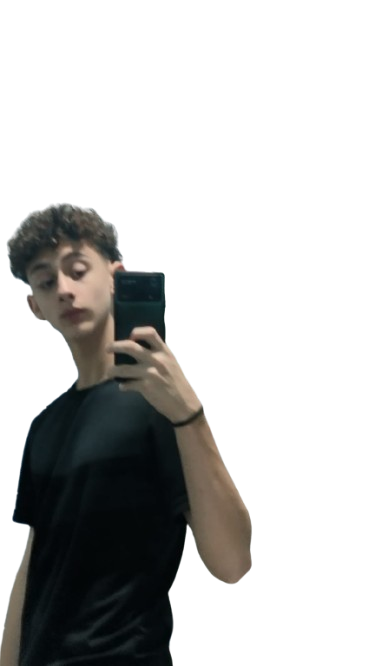
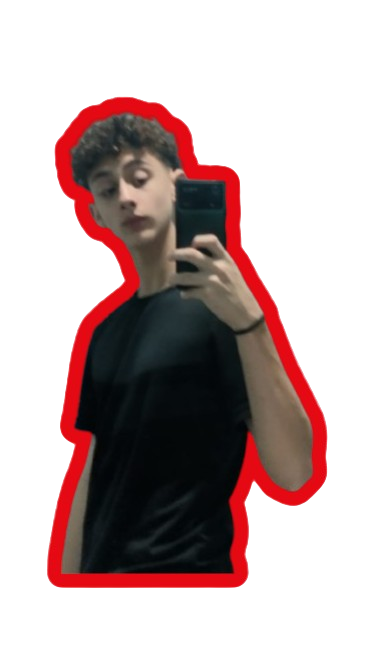
porfolio reformulado com UX/UI

diff --git a/Portfolio remodel/css/stlye.css b/Portfolio remodel/css/stlye.css
@@ -121,9 +121,11 @@ p {
 .text-logo img {
   width: 60%;
   height: 90%;
-  border: 3px solid red;
-  box-shadow: 0 0 15px 12px red, 0 0 15px 8px rgba(255, 0, 0, 0.5) inset;
-
+  margin-top: 20%;
+  margin-right: 20%;
+  border-radius: 25px 25px;
+  padding: -20px;
+  padding-top: -20px;
 }
 
 #foto {

diff --git a/aula 19/css/style.css b/aula 19/css/style.css
@@ -72,6 +72,7 @@ figure {
   color: white;
   background-color: #444;
   box-shadow: -2px 3px 0 #222, -4px 6px 0 #000;
+  content: box;
   bottom: 100%;
 }
 @media screen {
